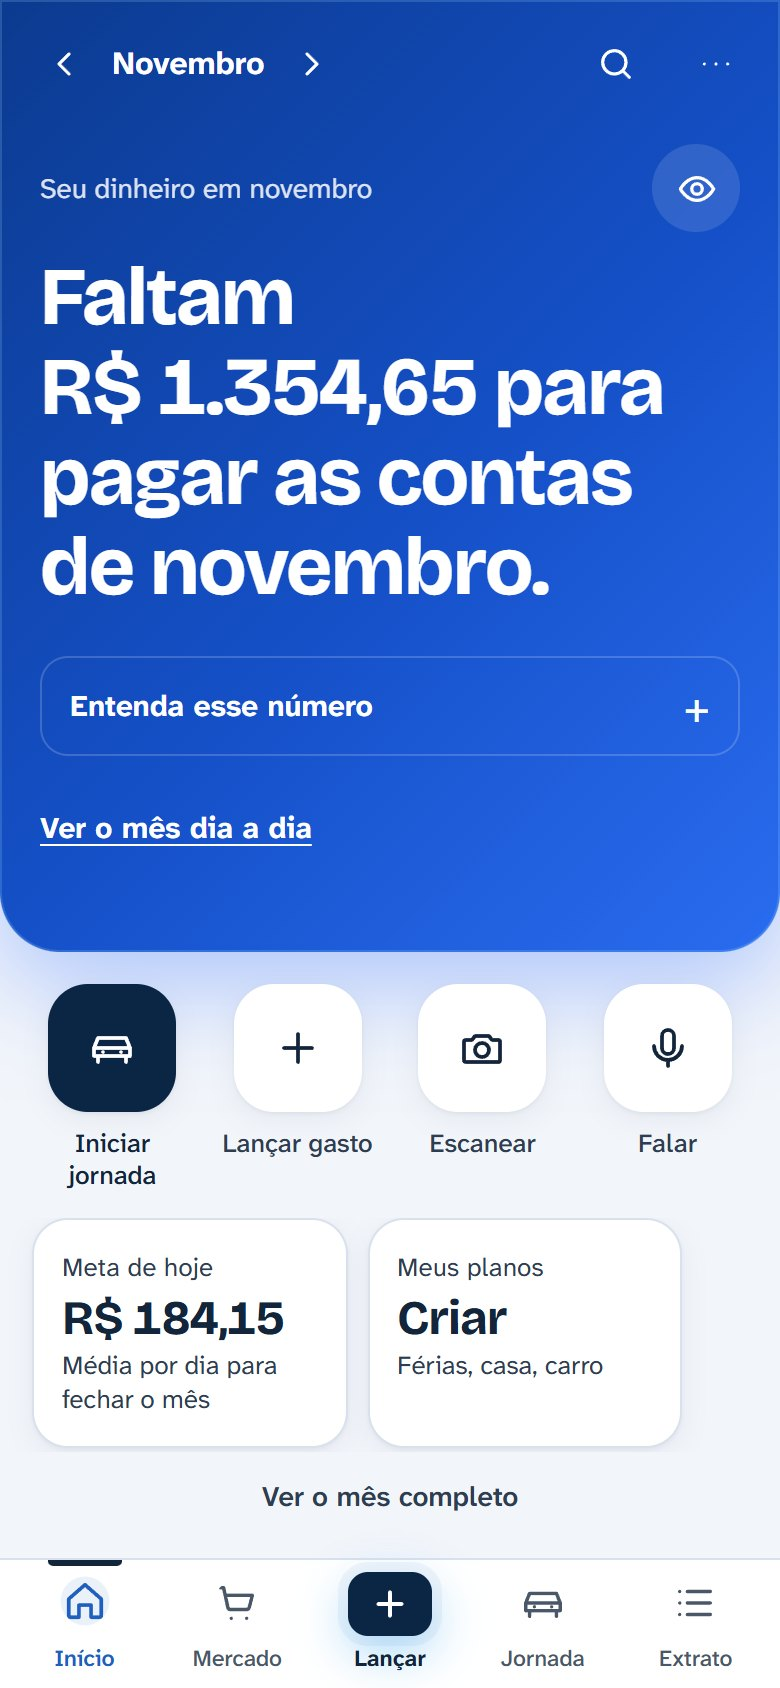
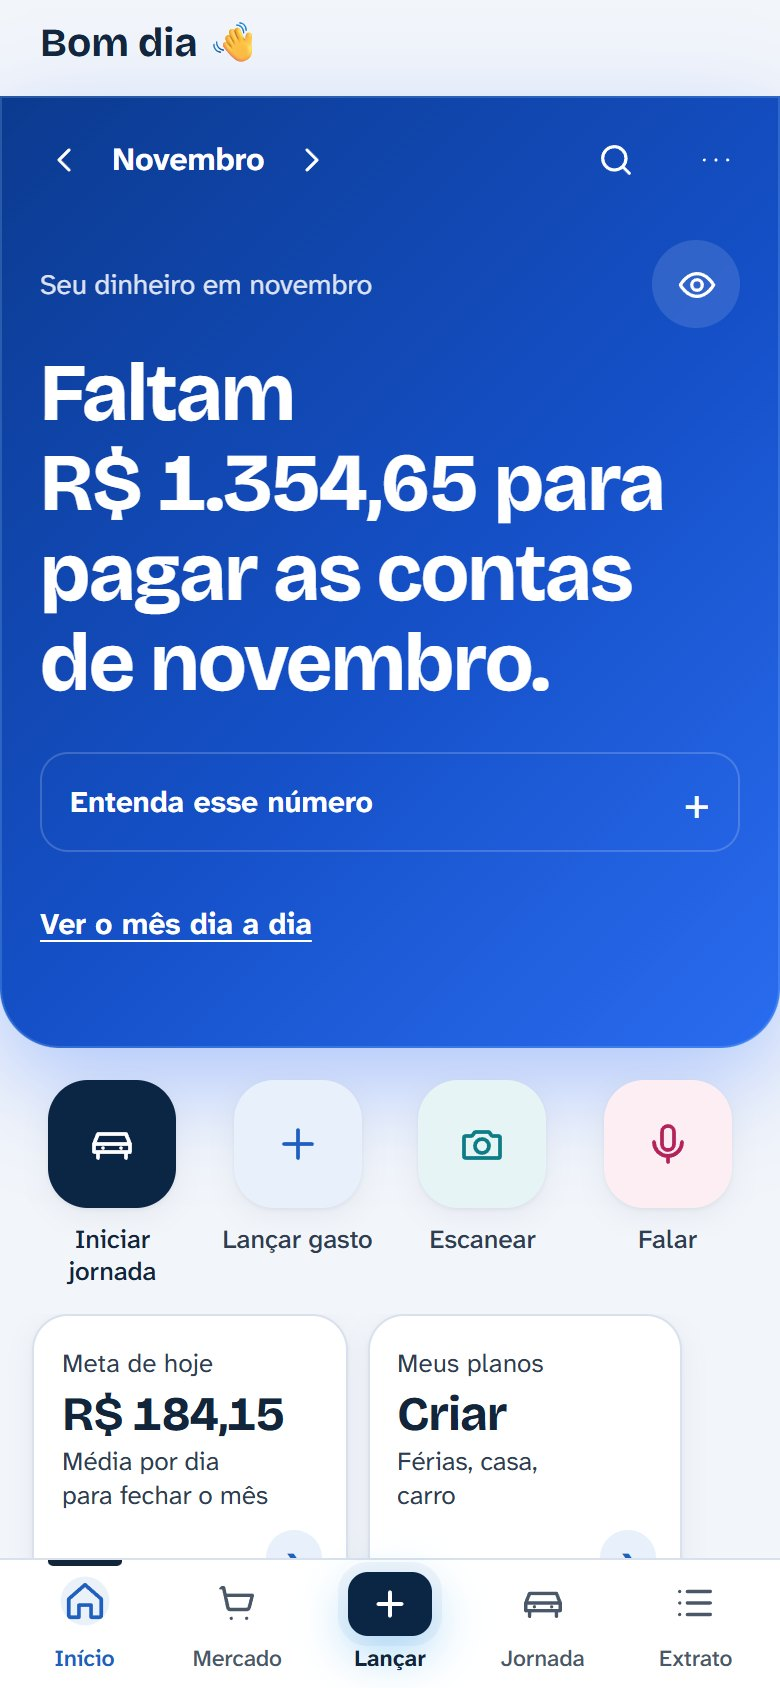
v264: Início com saudação, anel do livre no mês, atalhos com cor e cartões com seta

diff --git a/js/app.js b/js/app.js
@@ -1222,7 +1222,7 @@ function renderKpis(c) {
     if ($("conviteComecar")) $("conviteComecar").onclick = () => guiaPasso("renda", true);
     if ($("conviteExtrato")) $("conviteExtrato").onclick = () => abrirExtrato();
   } else {
-  $("resumo").innerHTML = `${S.prefs.motorista?.ativo?.ini ? `<button type="button" class="mot-faixa" data-atalho="motorista"><span class="mot-pulso" aria-hidden="true"></span><span>Jornada em andamento desde ${hhmm(Number(S.prefs.motorista.ativo.ini))}</span><b>Parar</b></button>` : ""}${dMot ? `<div class="hero banco cheia est-neutro">${mesNaTela}
+  $("resumo").innerHTML = `${S.prefs.motorista?.ativo?.ini ? `<button type="button" class="mot-faixa" data-atalho="motorista"><span class="mot-pulso" aria-hidden="true"></span><span>Jornada em andamento desde ${hhmm(Number(S.prefs.motorista.ativo.ini))}</span><b>Parar</b></button>` : ""}${dMot ? `${atualM ? saudacaoDoDia() : ""}<div class="hero banco cheia est-neutro">${mesNaTela}
       <div class="hero-top"><span class="l">Seu dinheiro em ${mesNome}</span>
         <button type="button" class="olho" id="olho" aria-pressed="${ocultos}" aria-label="${ocultos ? "Mostrar os valores" : "Esconder os valores"}">${ico(ocultos ? "olhoFechado" : "olho")}</button></div>
       <h2 class="hero-frase ocultavel">${dMot.meta.coberto ? `As contas de ${mesNome} estão cobertas.` : `Faltam ${brl(dMot.meta.falta)} para pagar as contas de ${mesNome}.`}</h2>
@@ -1237,12 +1237,12 @@ function renderKpis(c) {
       <span class="v convite">Falta contar o que você recebe</span>
       <span class="n ocultavel">Até agora o app só viu o que sai: ${brl(c.custo)} em contas e gastos. Diga quanto você recebe e ele mostra quanto sobra.</span>
       <button type="button" class="hero-bt" data-acao="recebi">Adicionar o que recebo</button>
-    </div>` : `<div class="hero banco cheia${atualM ? "" : " outro-mes"} est-${est.nivel}">${mesNaTela}
+    </div>` : `${atualM ? saudacaoDoDia() : ""}<div class="hero banco cheia${atualM ? "" : " outro-mes"} est-${est.nivel}">${mesNaTela}
     <div class="hero-top"><span class="l">${rotulo}</span>
       <button type="button" class="olho" id="olho" aria-pressed="${ocultos}" aria-label="${ocultos ? "Mostrar os valores" : "Esconder os valores"}">${ico(ocultos ? "olhoFechado" : "olho")}</button></div>
     ${frN || fraseDoMes ? `<h2 class="hero-frase ocultavel">${frN ? frN.frase : fraseDoMes}</h2>` : ""}
-    <span class="v ocultavel" data-det="saldo" role="button" tabindex="0" aria-label="${rotulo}: ${brl(Math.abs(rx.sobra))}. Abrir">${brl(Math.abs(rx.sobra))}</span>
-    ${sb.entra > 0 ? `<div class="hbar" aria-hidden="true"><i style="width:${usado}%"></i>${tempo ? `<u class="ritmo" style="left:${tempo}%"></u>` : ""}</div>
+    <div class="hero-valor"><span class="v ocultavel" data-det="saldo" role="button" tabindex="0" aria-label="${rotulo}: ${brl(Math.abs(rx.sobra))}. Abrir">${brl(Math.abs(rx.sobra))}</span>${sb.entra > 0 ? anelDoLivre(usado, tempo) : ""}</div>
+    ${sb.entra > 0 ? `
     <div class="hsub ocultavel"><span>${atualM || c.fase === "passado" ? (sb.livre < 0 ? `as contas do mês já passam das entradas em ${brl(-sb.livre)}` : falta ? `depois das contas, sobravam ${brl(sb.livre)} para o dia a dia` : atualM ? `ainda livres de ${brl(sb.livre)} depois das contas` : `de ${brl(sb.livre)} depois das contas`) : `previsto, depois das contas`}</span></div>` : ""}
     ${passos ? `<details class="ip-detalhe"><summary>Entenda esse número</summary>${passos}</details>` : ""}
     ${ficou}
@@ -2751,6 +2751,20 @@ function juntaReservasAntigas() {
   };
 }
 /** Os três cartões da primeira tela: o que importa agora, sem precisar rolar. */
+/** "Bom dia, Marcos": o primeiro nome que a pessoa já deu ao app (recibo ou Arrumar lançamentos). Sem nome, só o cumprimento. */
+function saudacaoDoDia() {
+  const h = new Date().getHours(), oi = h < 12 ? "Bom dia" : h < 18 ? "Boa tarde" : "Boa noite";
+  const nome = String(S.prefs.meuNome || S.prefs.recibo?.nome || "").trim().split(/\s+/)[0] || "";
+  return `<p class="saudacao">${oi}${nome ? `, ${esc(nome.charAt(0).toUpperCase() + nome.slice(1))}` : ""} 👋</p>`;
+}
+/** O anel do Início: quanto do dinheiro livre do mês ainda resta (o arco) e onde deveria estar pelo dia de hoje (o tracinho). */
+function anelDoLivre(usado, tempo) {
+  const resta = Math.max(0, 100 - usado), r = 26, c = 2 * Math.PI * r, arco = (c * resta) / 100;
+  const ang = tempo ? ((100 - tempo) / 100) * 360 - 90 : null, tx = (a) => 32 + r * Math.cos((a * Math.PI) / 180), ty = (a) => 32 + r * Math.sin((a * Math.PI) / 180);
+  return `<div class="hero-anel ocultavel" role="img" aria-label="Ainda resta ${resta}% do dinheiro livre do mês${tempo ? `; pelo dia de hoje, o ideal seria ${100 - tempo}%` : ""}">
+    <svg viewBox="0 0 64 64" aria-hidden="true"><circle cx="32" cy="32" r="${r}" class="fundo"/><circle cx="32" cy="32" r="${r}" class="arco" stroke-dasharray="${arco.toFixed(1)} ${c.toFixed(1)}" transform="rotate(-90 32 32)"/>${ang !== null ? `<line x1="${tx(ang).toFixed(1)}" y1="${ty(ang).toFixed(1)}" x2="${(32 + (r - 7) * Math.cos((ang * Math.PI) / 180)).toFixed(1)}" y2="${(32 + (r - 7) * Math.sin((ang * Math.PI) / 180)).toFixed(1)}" class="ideal"/>` : ""}</svg>
+    <span><b>${resta}%</b><small>livre</small></span></div>`;
+}
 function htmlAgora(c, dMot) {
   const hj = hoje(), pg = dMot || semEntradaNoMes(c) ? null : podeGastarHoje(c, gastoAVistaDoDia(S.data, hj)), prox = proximosVencimentos(S.data, hj, 30)[0], a = metaPrincipal(metasEmAndamento(S.data, S.prefs.metas, hj));
   const quando = (d) => (d <= 0 ? "hoje" : d === 1 ? "amanhã" : `em ${d} dias`);

diff --git a/js/novidades.js b/js/novidades.js
@@ -1,5 +1,6 @@
 /* O que mudou em cada versão, em palavras de quem usa o app. A tela "Novidades" mostra as últimas. */
 export const NOVIDADES = [
+  { versao: "264", itens: ["Início com cara nova: um bom-dia no topo, um anel mostrando quanto do dinheiro livre do mês ainda resta (o tracinho amarelo é onde ele deveria estar hoje) e o valor em letra grande.", "Os atalhos (Recebi, Escanear, Falar) ganharam cores suaves diferentes, para reconhecer sem ler, e os cartões têm uma seta que mostra que abrem."] },
   { versao: "263", itens: ["Lançar por prints: as horas trabalhadas agora são opcionais. Não sabe as horas? Lance só o ganho.", "O ganho por hora conta só os dias que têm horas, para não parecer que a hora vale mais do que vale.", "Lançar por prints: um app em que você não ganhou nada não trava mais o lançamento. A leitura sem app escolhido simplesmente fica de fora."] },
   { versao: "262", itens: ["Lançar mais rápido no celular: o valor em letra grande, logo abaixo a categoria, a forma e o dia, e o botão Lançar, tudo na primeira tela. Os atalhos (+5, +10, sugestões) e a descrição vêm depois do botão.", "Falar e Câmera ficaram numa faixa mais baixa, para o valor subir na tela.", "A frase do valor ficou mais clara: quando falta dinheiro no mês, ela diz quanto falta agora e quanto vai faltar com o gasto."] },
   { versao: "261", itens: ["Mais fácil de ler: letra nova no app e no site, feita para leitura rápida (0 e O, 1 e l, 6 e 8 bem diferentes), um pouco maior, e os textos cinza mais escuros, para ler no sol e no tablet.", "Jornada: na aba Começar, sumiu o espaço azul vazio. Os atalhos aparecem logo abaixo do Iniciar.", "Jornada: o Iniciar fica sempre no alto. A categoria do carro e o km do painel são perguntados uma vez, quando você toca em Iniciar pela primeira vez.", "Menu Mais mais curto: sem itens repetidos. Como foi o seu mês ficou com 4 opções (revisão, para onde foi o dinheiro, o ano e as assinaturas). O que saiu do menu continua na busca, na lupa do topo.", "Lançar outro dia tem esse mesmo nome em todo lugar. O Desafio de economia virou Cofrinho da semana, para não confundir com os Desafios dos motoristas."] },

diff --git a/css/tech.css b/css/tech.css
@@ -417,3 +417,29 @@ body{font-size:15px;line-height:1.5}
   .quick-head .btn.ler small{display:none!important}
   .quick-head .btn.ler .ic{width:24px!important;height:24px!important}
 }
+
+/* v264: Início com cara de app (referências do dono): saudação, anel do livre, atalhos com ícone colorido, cartões com seta */
+.saudacao{margin:2px 4px 10px;font-size:20px;font-weight:700;color:var(--ink);font-family:var(--display)}
+.hero-valor{display:flex;align-items:center;justify-content:space-between;gap:12px}
+.hero-anel{position:relative;flex:none;width:76px;height:76px}
+.hero-anel svg{width:100%;height:100%}
+.hero-anel .fundo{fill:none;stroke:rgba(255,255,255,.22);stroke-width:7}
+.hero-anel .arco{fill:none;stroke:#fff;stroke-width:7;stroke-linecap:round}
+.hero-anel .ideal{stroke:#ffd27a;stroke-width:3;stroke-linecap:round}
+.hero-anel span{position:absolute;inset:0;display:grid;place-content:center;text-align:center;color:#fff;line-height:1.05}
+.hero-anel b{font-size:17px;font-weight:800}
+.hero-anel small{font-size:11.5px;opacity:.9}
+/* atalhos: cada um com uma cor suave, para reconhecer sem ler */
+.acoes-ini button[data-acao="lancar"]:not(.ai-forte) .ic{background:#e8f0fc;color:#1f5fbf}
+.acoes-ini button[data-acao="recebi"] .ic{background:#e6f5ee;color:#12805c}
+.acoes-ini button[data-acao="ler"] .ic{background:#e6f4f5;color:#0e7c86}
+.acoes-ini button[data-acao="voz"] .ic{background:#fdeef3;color:#b4235a}
+:root[data-tema="escuro"] .acoes-ini button:not(.ai-forte) .ic{background:rgba(255,255,255,.08)}
+/* cartões do Início: uma seta redonda diz que eles abrem algo */
+.agora-c{position:relative;padding-right:46px}
+.agora-c::after{content:"›";position:absolute;right:12px;bottom:12px;display:grid;place-items:center;width:28px;height:28px;border-radius:50%;background:#e8f0fc;color:#1f5fbf;font-size:20px;font-weight:700;line-height:1}
+:root[data-tema="escuro"] .agora-c::after{background:rgba(95,212,255,.14);color:#5fd4ff}
+.saudacao{margin:6px 20px 12px}
+.hero.banco .hero-valor .v{font-family:var(--display);letter-spacing:-.02em;font-size:clamp(34px,11vw,44px)}
+.agora-c>span{padding-right:4px}
+.agora-c{padding-bottom:48px}

diff --git a/sw.js b/sw.js
@@ -1,7 +1,7 @@
 // Service worker: guarda os arquivos do app para abrir na hora, com ou sem sinal, e funcionar como app instalado.
 // Os dados (Supabase) sempre vêm da internet; sem conexão, o app usa a cópia e a fila do aparelho (js/store.js, comFila).
 // Ao mudar arquivos, aumente a VERSAO: é ela que faz os celulares baixarem a versão nova.
-const VERSAO = "meus-gastos-v263";
+const VERSAO = "meus-gastos-v264";
 const ARQUIVOS = [
   "./", "index.html", "css/style.css", "css/tech.css", "manifest.webmanifest",
   "js/app.js", "js/calc.js", "js/store.js", "js/excel.js", "js/leitor.js", "js/etiqueta.js", "js/notamercado.js", "js/qr.js", "js/extrato.js", "js/config.js", "js/voz.js", "js/extras.js", "js/conta.js", "js/escuta.js", "js/extratopdf.js", "js/motorista.js", "js/erros.js", "js/uso.js", "js/semana.js", "js/chat.js", "js/recibo.js", "js/anual.js", "js/prints.js", "js/ganhogasto.js", "js/novidades.js", "js/arrumar.js", "js/paraondefoi.js", "js/casalvisao.js",

diff --git a/js/config.js b/js/config.js
@@ -31,4 +31,4 @@ export const PLAY_PACOTE = "";
 // a pessoa nem sempre acha onde baixar. O código fica guardado; para religar, troque para true.
 export const IMPORTA_EXTRATO = false;
 
-export const APP_VERSAO = "263";
+export const APP_VERSAO = "264";

diff --git a/PAINEL.md b/PAINEL.md
@@ -22,7 +22,8 @@ Como usar: abra este arquivo no começo de cada dia. Quando terminar um item, tr
   - v252: testes de tela automáticos (`npm run telas`, 17 verificações) que abrem o app e fazem os caminhos de todo dia; os números do Início, do Planejar e da Jornada batem.
   - v253: caixas de aviso legíveis na Jornada no tema claro; testes de tela agora são 21 (Contas fixas, Cartões, Ganhos e tema claro incluídos).
   - v254 (pronta, falta publicar): menu de baixo com Mercado (Mais no topo); Extrato em partes (Meus, Casal, Contas fixas); categoria e km do painel só uma vez; aviso de troca de óleo; Desafio mais colorido; a Conversa do desafio saiu do app.js para js/chat.js.
-  - v263 (17/11, pronta, falta publicar): horas opcionais no Lançar por prints; ganho e lucro por hora (resumoTurnos, ritmoHistorico) contam só os turnos com horas.
+  - v264 (17/11, pronta, falta publicar): visual novo do Início inspirado nas referências do dono (sem copiar marcas): saudação (saudacaoDoDia), anel do livre no mês no cartão azul (anelDoLivre, no lugar da barra), atalhos com cor suave por ação, seta redonda nos cartões. Próximo: levar o anel para a Jornada (meta do dia).
+  - v263 (17/11, publicada): horas opcionais no Lançar por prints; ganho e lucro por hora (resumoTurnos, ritmoHistorico) contam só os turnos com horas.
   - v262 (16/11, publicada): Lançar no celular em ordem de uso (valor grande, categoria, forma e data, cartão quando for o caso, Lançar; o resto depois do botão). Também: Falar e Câmera numa faixa baixa; frase do efeito do gasto em palavras ("Faltam R$ X no mês. Com este gasto, faltam R$ Y.") em vez de "Livre agora -R$".
   - v261 (16/11, publicada): foco em uso. Letra do texto Atkinson Hyperlegible Next (app e site), texto base 15px, cinzas mais escuros no claro (--ink-2 #2e3d51, --muted #4a5768); sem o vão azul na aba Começar; fotos do site refeitas. Também: Iniciar sempre no alto, categoria e km perguntados na primeira vez ao tocar em Iniciar (perguntaAntesDeIniciar); menu Mais enxuto (hub Como foi o seu mês com 4 itens; Meus planos, Custo do carro, Custo da casa, Hora, Dicas e Cofrinho fora do menu, mas na busca); um nome só: Lançar outro dia. Uso real (eventos_uso, 60 dias, 12 aparelhos): Início, Extrato, Jornada e Lançar; ferramentas quase sem uso. Próximo item de uso: Lançar mais curto (valor, categoria, Lançar; o resto recolhido).
   - v260 (16/11, publicada): pedido do dono. Jornada parada em duas abas (Começar enxuta com Iniciar no alto e quadradinhos; Resumo e meta com o resto); Mais opções em caixas grandes (2 por linha no celular, 3 no tablet); botão de folga legível; quadradinhos com nome mais escuro.
